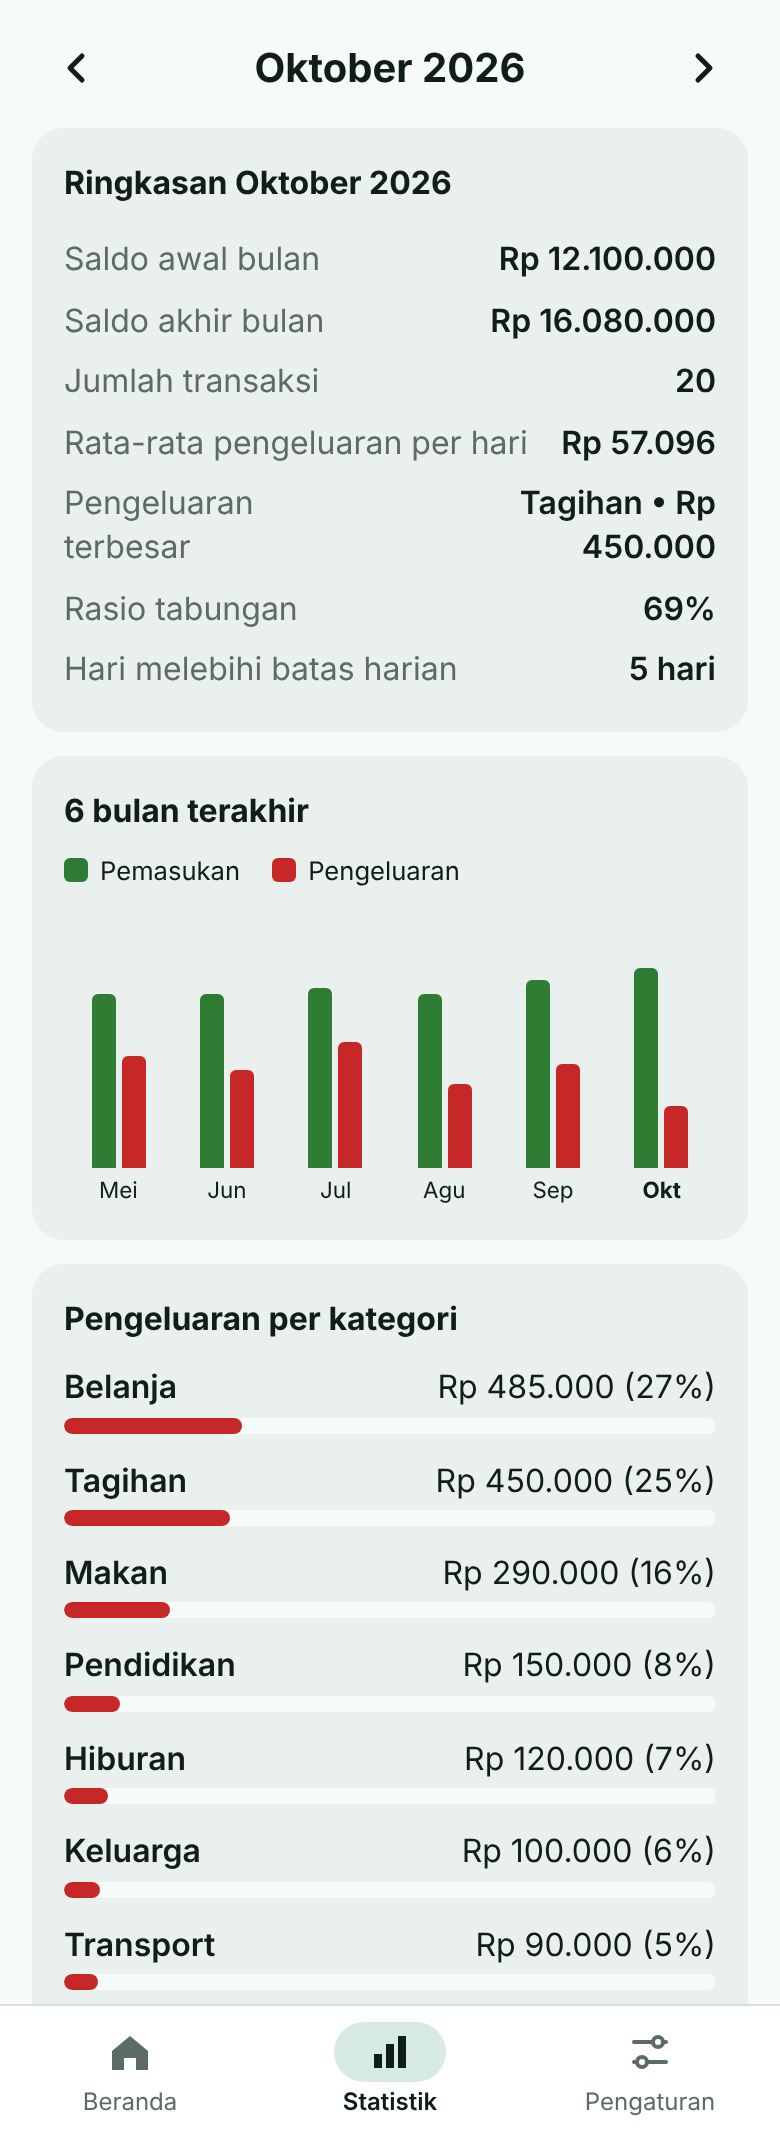
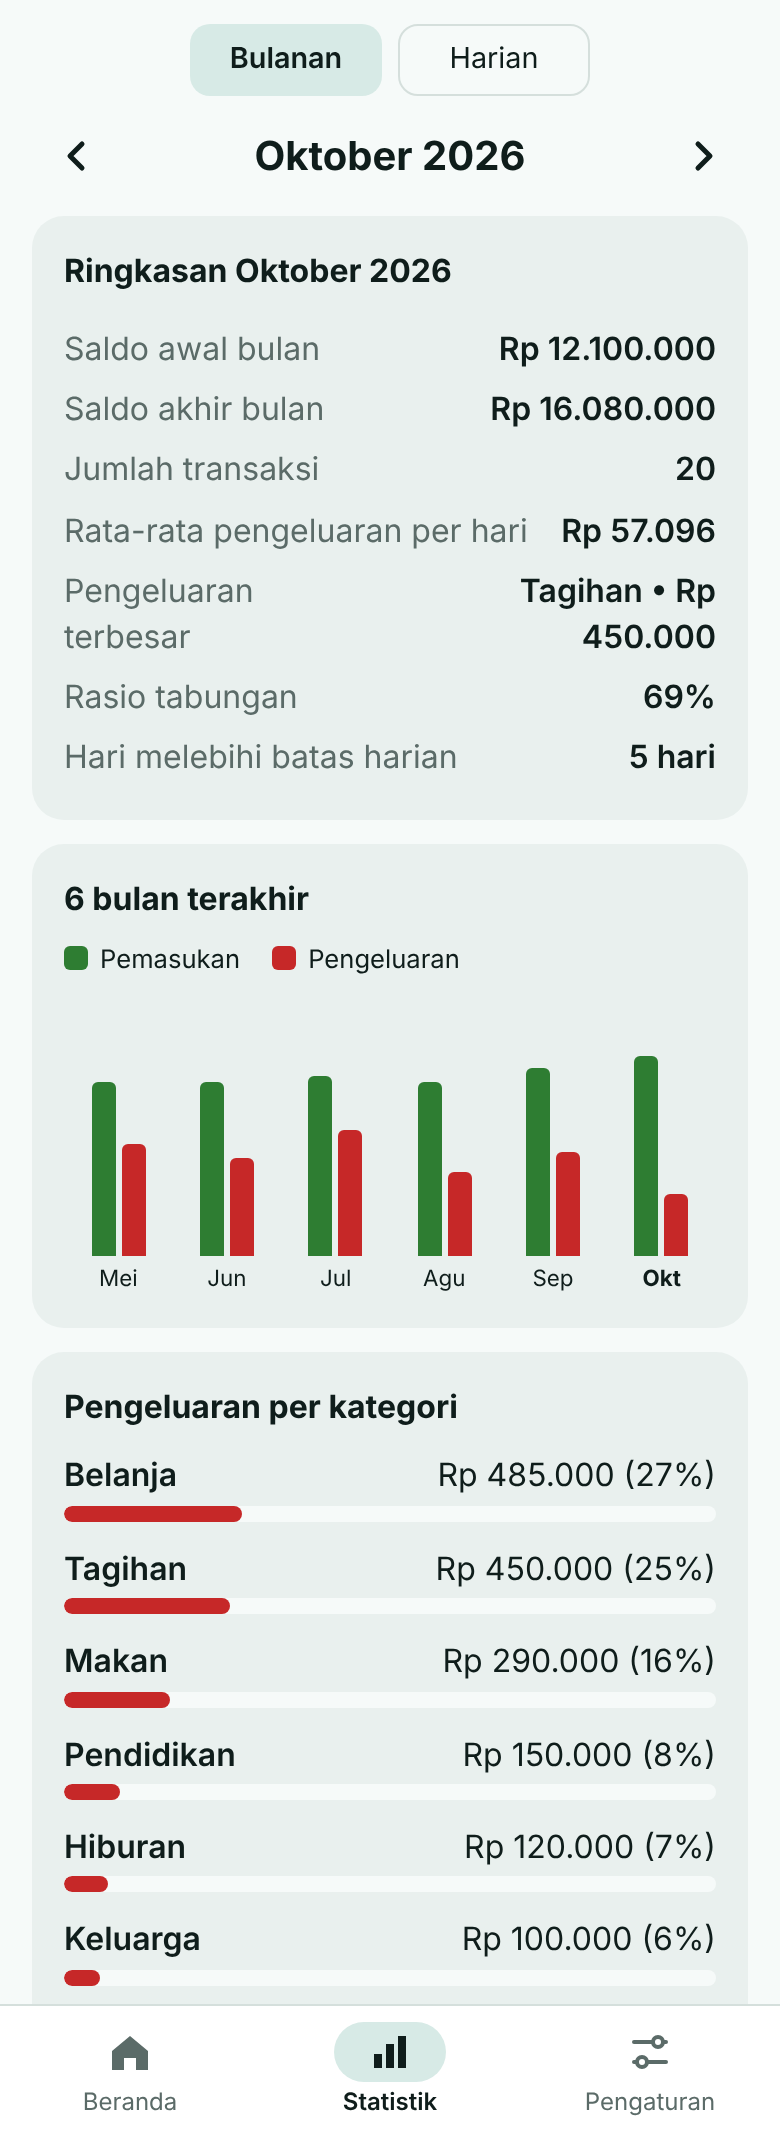
Statistik harian: ringkasan hari, grafik 7 hari, kategori per hari
Claude-Session: https://claude.ai/code/session_01PoaaqTZ6TSVxPmi1eVRVKY

diff --git a/app.js b/app.js
@@ -326,7 +326,83 @@ function renderHome() {
     '<div id="list">' + listHtml(items) + '</div>';
 }
 
+function catListHtml(expenses, totalOut, emptyText) {
+  const byCat = {};
+  expenses.forEach((t) => { byCat[t.category] = (byCat[t.category] || 0) + t.amount; });
+  const cats = Object.keys(byCat).map((k) => [k, byCat[k]]).sort((a, b) => b[1] - a[1]);
+  return cats.length ? cats.map(([name, v]) => {
+    const pct = totalOut > 0 ? (v / totalOut) * 100 : 0;
+    return '<div class="cat"><div class="top"><b>' + esc(name) + '</b><span>' + fmtRp(v) + ' (' + Math.round(pct) + '%)</span></div>' +
+      '<div class="progress"><div class="expense" style="width:' + pct + '%"></div></div></div>';
+  }).join('') : '<div class="muted">' + emptyText + '</div>';
+}
+
+const WEEKDAYS_SHORT = ['Min', 'Sen', 'Sel', 'Rab', 'Kam', 'Jum', 'Sab'];
+
+function renderDayStats() {
+  const key = dayKey(ui.day);
+  const items = dayItems();
+  const expenses = items.filter((t) => t.type === OUT);
+  const totalIn = sum(items, IN);
+  const totalOut = sum(items, OUT);
+  const opening = balanceBeforeDay(key);
+  const biggest = expenses.reduce((m, t) => (!m || t.amount > m.amount ? t : m), null);
+
+  // Rata-rata pengeluaran harian di bulan yang sama (sampai hari ini bila bulan berjalan)
+  const midx = monthIndexOf(ui.day);
+  const monthOut = sum(transactions.filter((t) => monthIndexOf(t.date) === midx), OUT);
+  const counted = midx === currentMonthIndex() ? new Date().getDate() : daysInMonth(midx);
+  const avg = counted > 0 ? Math.floor(monthOut / counted) : 0;
+  let cmp = '-';
+  if (avg > 0) {
+    const diff = Math.round(((totalOut - avg) / avg) * 100);
+    cmp = (diff > 0 ? '+' : '') + diff + '% dari rata-rata (' + fmtRp(avg) + ')';
+  }
+
+  const lim = settings.dailyLimit || 0;
+  let limLine = '';
+  if (lim > 0) {
+    limLine = '<div class="line"><span>Batas harian</span><span class="' + (totalOut > lim ? 'out' : '') + '">' +
+      (totalOut > lim ? 'Melebihi ' + fmtRp(totalOut - lim) : 'Sisa ' + fmtRp(lim - totalOut)) + '</span></div>';
+  }
+
+  // Grafik 7 hari berakhir di hari yang dipilih
+  const series = [];
+  for (let i = 6; i >= 0; i--) {
+    const ms = shiftDay(ui.day, -i);
+    const k = dayKey(ms);
+    const list = transactions.filter((t) => dayKey(t.date) === k);
+    series.push({ ms, k, inc: sum(list, IN), exp: sum(list, OUT) });
+  }
+  const maxV = Math.max(1, ...series.map((x) => Math.max(x.inc, x.exp)));
+  const bar = (v, color) => '<span style="height:' + (v <= 0 ? 2 : Math.max(3, Math.round(100 * v / maxV))) + 'px;background:' + color + '"></span>';
+  const weekExp = series.reduce((a, x) => a + x.exp, 0);
+
+  return viewToggle() + daySelector() + '<div class="stack">' +
+    '<div class="card"><h2>Ringkasan hari</h2>' +
+    '<div class="line"><span>Saldo awal</span><span>' + fmtRp(opening) + '</span></div>' +
+    '<div class="line"><span>Saldo akhir</span><span>' + fmtRp(opening + totalIn - totalOut) + '</span></div>' +
+    '<div class="line"><span>Jumlah transaksi</span><span>' + items.length + '</span></div>' +
+    '<div class="line"><span>Pemasukan</span><span class="in">' + fmtRp(totalIn) + '</span></div>' +
+    '<div class="line"><span>Pengeluaran</span><span class="out">' + fmtRp(totalOut) + '</span></div>' +
+    '<div class="line"><span>Pengeluaran terbesar</span><span>' + (biggest ? esc(biggest.category) + ' • ' + fmtRp(biggest.amount) : '-') + '</span></div>' +
+    '<div class="line"><span>Dibanding rata-rata harian bulan ini</span><span>' + esc(cmp) + '</span></div>' + limLine + '</div>' +
+
+    '<div class="card"><h2>7 hari terakhir</h2>' +
+    '<div class="legend"><span><i style="background:var(--in)"></i>Pemasukan</span><span><i style="background:var(--out)"></i>Pengeluaran</span></div>' +
+    '<div class="chart">' + series.map((x) =>
+      '<div class="col"><div class="bars">' + bar(x.inc, 'var(--in)') + bar(x.exp, 'var(--out)') + '</div>' +
+      '<div class="m' + (x.k === key ? ' sel' : '') + '">' + WEEKDAYS_SHORT[new Date(x.ms).getDay()] + '</div>' +
+      '<div class="m d' + (x.k === key ? ' sel' : '') + '">' + new Date(x.ms).getDate() + '</div></div>'
+    ).join('') + '</div>' +
+    '<div class="line" style="margin-top:12px"><span>Total pengeluaran 7 hari</span><span>' + fmtRp(weekExp) + '</span></div>' +
+    '<div class="line"><span>Rata-rata per hari</span><span>' + fmtRp(Math.floor(weekExp / 7)) + '</span></div></div>' +
+
+    '<div class="card"><h2>Pengeluaran per kategori</h2>' + catListHtml(expenses, totalOut, 'Belum ada pengeluaran di hari ini.') + '</div></div>';
+}
+
 function renderStats() {
+  if (ui.view === 'day') return renderDayStats();
   const items = monthItems();
   const expenses = items.filter((t) => t.type === OUT);
   const totalIn = sum(items, IN);
@@ -358,7 +434,7 @@ function renderStats() {
     overLine = '<div class="line"><span>Hari melebihi batas harian</span><span>' + overDays + ' hari</span></div>';
   }
 
-  return monthSelector() + '<div class="stack">' +
+  return viewToggle() + monthSelector() + '<div class="stack">' +
     '<div class="card"><h2>Ringkasan ' + monthLabel(ui.month) + '</h2>' +
     '<div class="line"><span>Saldo awal bulan</span><span>' + fmtRp(balanceBeforeMonth(ui.month)) + '</span></div>' +
     '<div class="line"><span>Saldo akhir bulan</span><span>' + fmtRp(balanceBeforeMonth(ui.month) + totalIn - totalOut) + '</span></div>' +

diff --git a/styles.css b/styles.css
@@ -267,3 +267,8 @@ svg.i { width: 24px; height: 24px; display: block; }
 .view-toggle .chip { min-width: 96px; text-align: center; }
 .month .label.day-label { font-size: 1.05rem; }
 .card.hero .opening { margin-top: 6px; opacity: 0.85; }
+
+.chart .m.d { margin-top: 0; color: var(--muted); }
+.chart .m.d.sel { color: var(--fg); }
+.line .in { color: var(--in); }
+.line .out { color: var(--out); }

diff --git a/sw.js b/sw.js
@@ -1,7 +1,7 @@
 // Service worker: aplikasi bisa dibuka offline.
 // Strategi: ambil versi terbaru dari jaringan (maks. 4 detik); jika offline atau lambat,
 // pakai salinan di cache. Dengan begitu pembaruan langsung terlihat saat online.
-const CACHE = 'keuanganku-v7';
+const CACHE = 'keuanganku-v8';
 const ASSETS = [
   './',
   'index.html',

diff --git a/README.md b/README.md
@@ -20,6 +20,9 @@ tetap berjalan tanpa internet, dan (opsional) menyinkronkan data ke semua perang
   </tr>
   <tr>
     <td align="center"><img src="docs/screenshots/harian.png" width="220" alt="Tampilan harian"><br><sub>Tampilan harian: saldo awal/akhir dan progress anggaran harian</sub></td>
+    <td align="center"><img src="docs/screenshots/statistik-harian.png" width="220" alt="Statistik harian"><br><sub>Statistik harian</sub></td>
+  </tr>
+  <tr>
     <td align="center"><img src="docs/screenshots/kategori-kustom.png" width="220" alt="Kategori kustom"><br><sub>Kategori kustom</sub></td>
   </tr>
 </table>
@@ -34,7 +37,7 @@ Tangkapan layar memakai data contoh.
 - **Anggaran bulanan** dengan progress bar yang berubah warna saat mendekati batas.
 - **Batas pengeluaran harian:** kartu "hari ini", petunjuk sisa batas saat mengisi transaksi, peringatan saat melewati batas, dan penanda hari yang melewati batas. Ada saran batas dari anggaran bulanan.
 - **Kategori kustom:** tambah dan hapus kategori sendiri (pengeluaran dan pemasukan) di Pengaturan, maksimal 20 per jenis dan 20 karakter per nama. Tampil di form transaksi sebelum "Lainnya", ikut statistik, dan ikut tersinkron. Menghapus kategori tidak mengubah transaksi lama.
-- **Statistik:** ringkasan bulan, rasio tabungan, jumlah hari melewati batas, grafik 6 bulan, dan pengeluaran per kategori.
+- **Statistik bulanan dan harian:** pilih Bulanan atau Harian. Tampilan harian berisi ringkasan hari (saldo awal/akhir, jumlah transaksi, pengeluaran terbesar, perbandingan dengan rata-rata harian bulan itu, sisa batas harian), grafik 7 hari terakhir, dan pengeluaran per kategori hari itu. Tampilan bulanan: ringkasan bulan, rasio tabungan, jumlah hari melewati batas, grafik 6 bulan, dan pengeluaran per kategori.
 - **Data:** ekspor dan impor CSV (format sama dengan versi Android), bagikan ringkasan bulanan.
 - **Tema:** terang, gelap, atau ikut sistem.
 - **Offline:** semua fitur tetap jalan tanpa internet.
